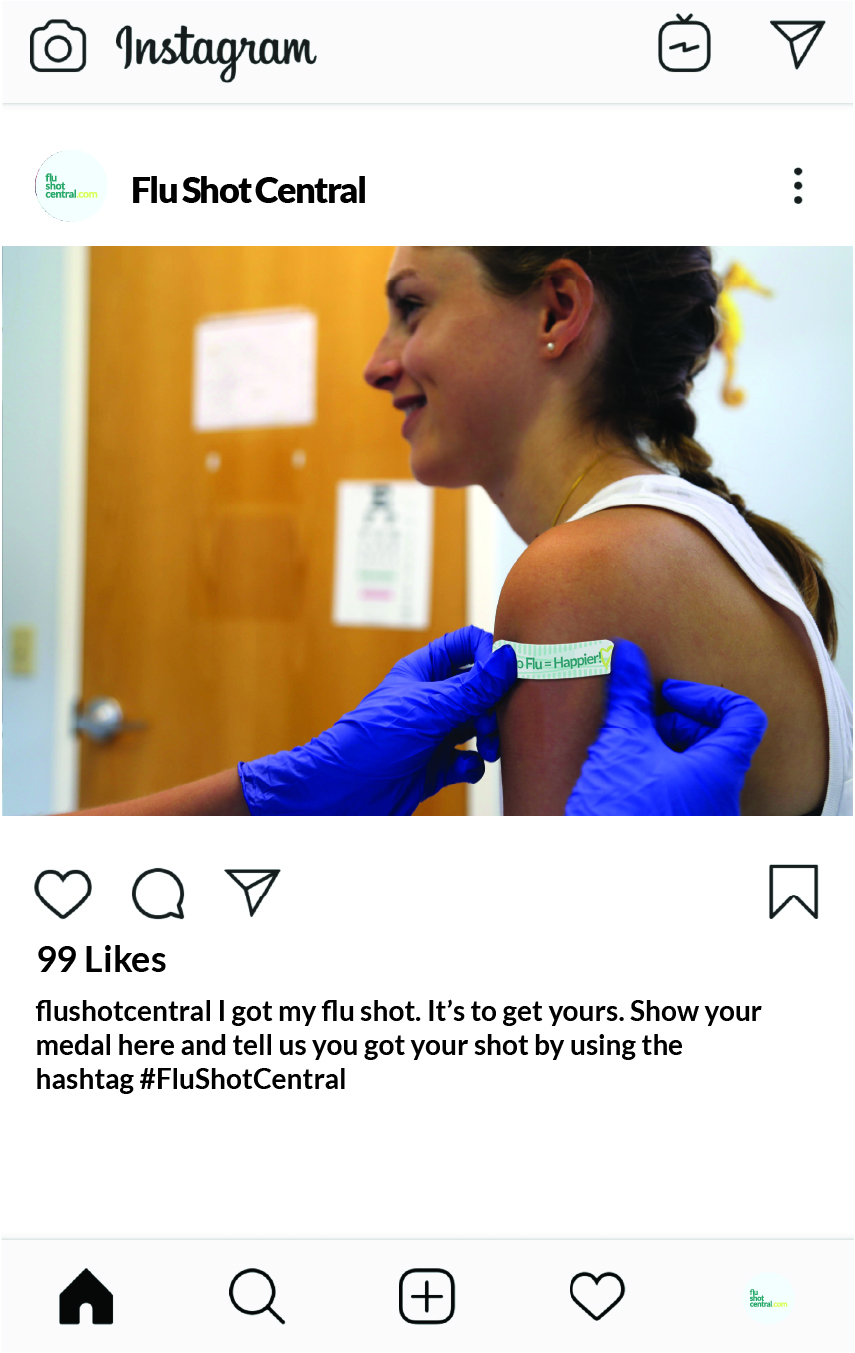
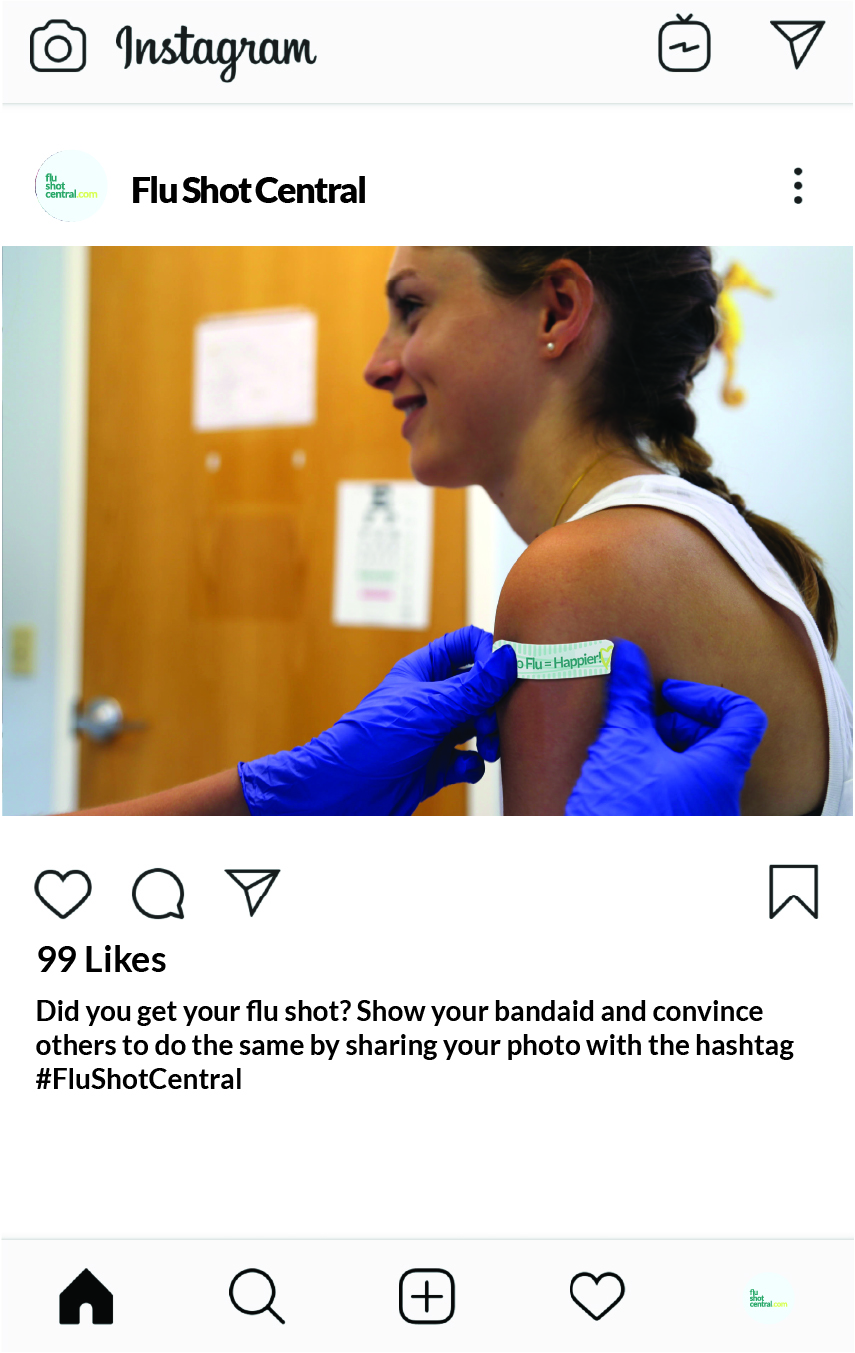
style update and typo fixed

Changed region(s): [[0.0304, 0.714, 0.9123, 0.8071]]

diff --git a/assets/css/style.css b/assets/css/style.css
@@ -1,4 +1,4 @@
-/*By Leping Jiang Updated at 2020/04/25*/
+/*By Leping Jiang Updated at 2020/05/11*/
 
 
 /*preset*/
@@ -139,7 +139,7 @@ nav a:hover {
 
 .search {
 	position: relative;
-	left: 400px;
+	left: 550px;
 	top: -40px;
 }
 
@@ -365,6 +365,44 @@ footer div{
 			background: #008377;
 			border-radius: 10px;
 		}
+
+.dropbtn img{
+	width: 25px;
+	height: 25px;
+	margin: 5px 6px;
+
+}
+
+.dropbtn a{
+	width: 25px;
+	height: 25px;
+}
+
+
+.dropbtn{
+	border-radius: 25px;
+	background: #F5FBFE;
+	border: 2px solid #008377
+}
+
+
+.dropdown {
+	position:fixed;
+	z-index: 1;
+	height: 0;
+	right: 10px;
+	bottom: 250px
+}
+
+.dropdown:hover {
+	display: block;
+}
+
+.dropdown:hover .dropbtn {
+	background-color: #fff;
+	
+}
+
 
 
 @media screen and (max-width:960px) {
@@ -602,5 +640,9 @@ footer div{
 		margin: 20px 0px;
 
 	}
+	
+	footer div{
+	margin: 0px
+}
 
 }

diff --git a/index.html b/index.html
@@ -105,7 +105,7 @@
 		</div>
 		<div class="hpacccb tc boxingy c50 m10">
 			<div class="boxtitledg" style="background: #dfe675; color: #008377">I Got My Antibodies</div>
-			<div class="hpaccc tc m10" style="padding-top: 0;">flushotcentral I got my flu shot. It’s to get yours. Show your medal here and tell us you got your shot by using the hashtag #FluShotCentral </div>
+			<div class="hpaccc tc m10" style="padding-top: 0;">Did you get your flu shot? Show your bandaid and convince others to do the same by sharing your photo with the hashtag #FluShotCentral</div>
 			<img src="assets/img/fulligmuckup.jpg">
 		</div>
 	</div>

diff --git a/about.html b/about.html
@@ -2,7 +2,7 @@
 <html>
 
 <head>
-	<title>Flu Shot Central</title>
+	<title>Flu Shot Central-Prevention-About Flu</title>
 	<meta name="viewport" content="width=device-width, initial-scale=1.0">
 	<link rel="stylesheet" href="https://cdnjs.cloudflare.com/ajax/libs/font-awesome/4.7.0/css/font-awesome.min.css">
 	<link rel="stylesheet" href="assets/css/style.css">
@@ -49,6 +49,13 @@
 		
 		</div>
 	</header>
+	
+	
+	
+	<!--Back Button-->
+	<div class="dropdown">
+		<button class="dropbtn"><a href="prevention.html"><img src="assets/img/backbtm.svg" alt=""></a></button>
+	</div>
 
 <div class="container p10">
 	<div class="site">

diff --git a/flu.html b/flu.html
@@ -2,7 +2,7 @@
 <html>
 
 <head>
-	<title>Flu Shot Central</title>
+	<title>Flu Shot Central-Prevention-Flu Vaccination</title>
 	<meta name="viewport" content="width=device-width, initial-scale=1.0">
 	<link rel="stylesheet" href="https://cdnjs.cloudflare.com/ajax/libs/font-awesome/4.7.0/css/font-awesome.min.css">
 	<link rel="stylesheet" href="assets/css/style.css">
@@ -48,6 +48,12 @@
 		
 		</div>
 	</header>
+	
+	
+	<!--Back Button-->
+	<div class="dropdown">
+		<button class="dropbtn"><a href="prevention.html"><img src="assets/img/backbtm.svg" alt=""></a></button>
+	</div>
 	
 	<div class="container p10">
 

diff --git a/facts.html b/facts.html
@@ -2,7 +2,7 @@
 <html>
 
 <head>
-	<title>Flu Shot Central</title>
+	<title>Flu Shot Central-Prevention-Facts</title>
 	<meta name="viewport" content="width=device-width, initial-scale=1.0">
 	<link rel="stylesheet" href="https://cdnjs.cloudflare.com/ajax/libs/font-awesome/4.7.0/css/font-awesome.min.css">
 	<link rel="stylesheet" href="assets/css/style.css">
@@ -48,7 +48,10 @@ p{
 		</div>
 	</header>
 	
-	
+	<!--Back Button-->
+	<div class="dropdown">
+		<button class="dropbtn"><a href="prevention.html"><img src="assets/img/backbtm.svg" alt=""></a></button>
+	</div>
 	
 	
 <div class="container p10">

diff --git a/infoprevent.html b/infoprevent.html
@@ -2,7 +2,7 @@
 <html>
 
 <head>
-	<title>Flu Shot Central</title>
+	<title>Flu Shot Central-Prevention-How to prevent the flu</title>
 	<meta name="viewport" content="width=device-width, initial-scale=1.0">
 	<link rel="stylesheet" href="https://cdnjs.cloudflare.com/ajax/libs/font-awesome/4.7.0/css/font-awesome.min.css">
 	<link rel="stylesheet" href="assets/css/style.css">
@@ -48,6 +48,11 @@
 		
 		</div>
 	</header>
+	
+	<!--Back Button-->
+	<div class="dropdown">
+		<button class="dropbtn"><a href="prevention.html"><img src="assets/img/backbtm.svg" alt=""></a></button>
+	</div>
 	
 	
 	

diff --git a/prevention.html b/prevention.html
@@ -2,7 +2,7 @@
 <html>
 
 <head>
-	<title>Flu Shot Central</title>
+	<title>Flu Shot Central-Prevention</title>
 	<meta name="viewport" content="width=device-width, initial-scale=1.0">
 	<link rel="stylesheet" href="https://cdnjs.cloudflare.com/ajax/libs/font-awesome/4.7.0/css/font-awesome.min.css">
 	<link rel="stylesheet" href="assets/css/style.css">

diff --git a/aboutffc.html b/aboutffc.html
@@ -2,7 +2,7 @@
 <html>
 
 <head>
-	<title>Flu Shot Central</title>
+	<title>About Flu Shot Central</title>
 	<meta name="viewport" content="width=device-width, initial-scale=1.0">
 	<link rel="stylesheet" href="https://cdnjs.cloudflare.com/ajax/libs/font-awesome/4.7.0/css/font-awesome.min.css">
 	<link rel="stylesheet" href="assets/css/style.css">

diff --git a/aboutteamwow.html b/aboutteamwow.html
@@ -2,7 +2,7 @@
 <html>
 
 <head>
-	<title>Flu Shot Central</title>
+	<title>Members of Team Wow</title>
 	<meta name="viewport" content="width=device-width, initial-scale=1.0">
 	<link rel="stylesheet" href="https://cdnjs.cloudflare.com/ajax/libs/font-awesome/4.7.0/css/font-awesome.min.css">
 	<link rel="stylesheet" href="assets/css/style.css">
